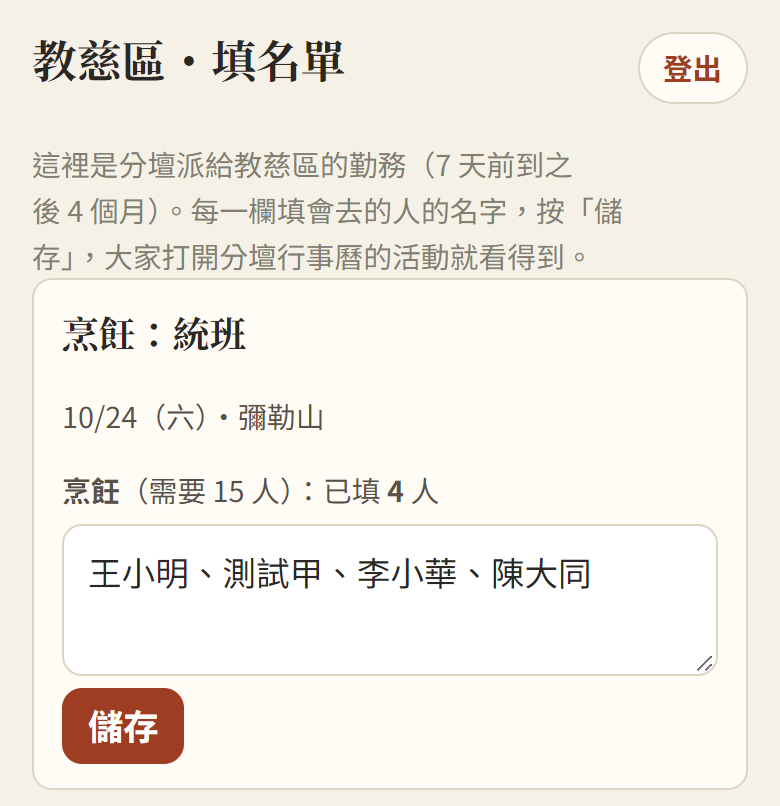
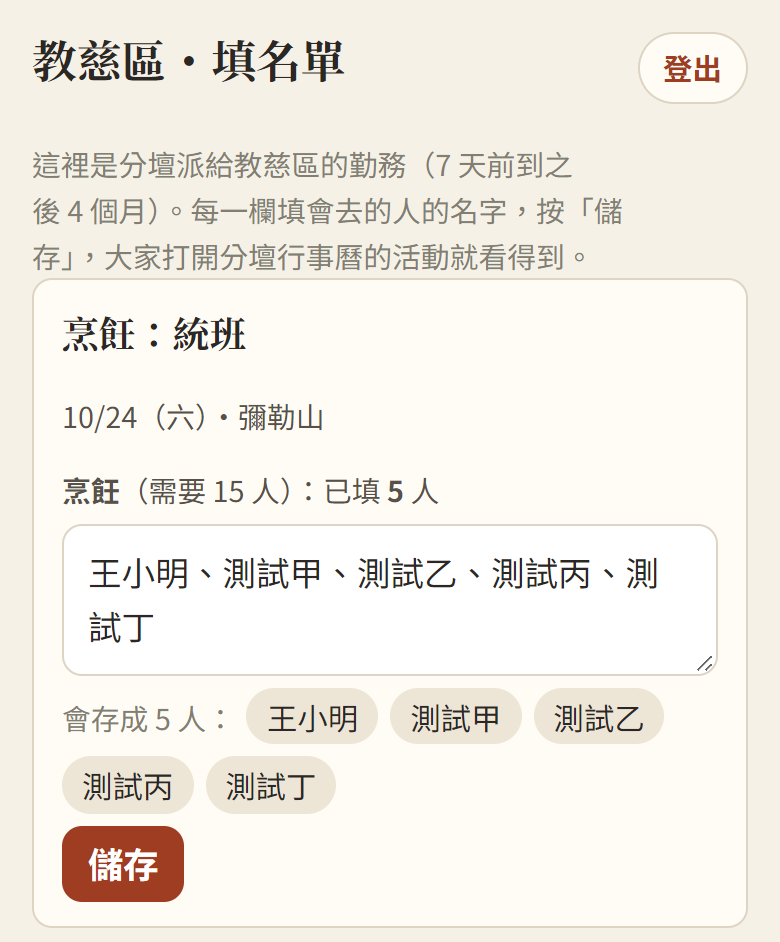
名單格式一致：多認句號、斜線、間隔號等分隔符號；輸入時即時預覽拆好的名字和人數，太長、超過人數當場提醒

diff --git a/js/admin.js b/js/admin.js
@@ -219,9 +219,10 @@
             ${ev.start !== ev.end ? `<p class="roster-day"><strong>${Fmt.esc(Fmt.shortDate(d))}</strong></p>` : ''}
             ${fields(ev).map((p) => {
               const names = ((ev.roster || {})[d] || {})[p.id] || [];
-              return `<form class="roster-fill" data-id="${Fmt.esc(ev.id)}" data-date="${d}" data-key="${Fmt.esc(p.id)}">
+              return `<form class="roster-fill" data-id="${Fmt.esc(ev.id)}" data-date="${d}" data-key="${Fmt.esc(p.id)}" data-max="${p.max || ''}">
                 <label class="form-row"><span><strong>${Fmt.esc(p.name)}</strong>${need(p) ? `（${Fmt.esc(need(p))}）` : ''}：已填 <b data-count>${names.length}</b> 人</span>
-                  <textarea class="input textarea" name="names" rows="2" placeholder="名字用、或空白隔開，例：王小明、測試甲">${Fmt.esc(names.join('、'))}</textarea></label>
+                  <textarea class="input textarea" name="names" rows="2" placeholder="名字之間空一格或用、隔開，例：王小明、測試甲">${Fmt.esc(names.join('、'))}</textarea></label>
+                <div class="name-preview" data-preview aria-live="polite"></div>
                 <div class="roster-fill-actions"><button type="submit" class="btn btn-primary btn-small">儲存</button><span class="muted" data-msg></span></div>
               </form>`;
             }).join('')}
@@ -241,6 +242,20 @@
     }
     const sel = view.querySelector('[data-f="unit"]');
     if (sel) sel.addEventListener('change', () => { location.hash = '#/admin/roster/' + encodeURIComponent(sel.value); });
+    // 邊打邊預覽：拆好的名字一個一個顯示（和存檔後一樣），太長、超過人數當場提醒
+    const preview = (f) => {
+      const names = Fmt.splitNames(f.names.value);
+      const max = Number(f.dataset.max) || 0;
+      const long = names.filter((n) => n.length > 20);
+      f.querySelector('[data-preview]').innerHTML = names.length ? `
+        <span class="name-count">會存成 ${names.length} 人：</span>${names.map((n) => `<span class="name-chip${n.length > 20 ? ' is-bad' : ''}">${Fmt.esc(n)}</span>`).join('')}
+        ${long.length ? '<p class="form-error">標紅色的太長了（最多 20 字），是不是兩個名字中間忘了空格或「、」？</p>' : ''}
+        ${max && names.length > max ? `<p class="form-error">超過最多 ${max} 人</p>` : ''}` : '';
+    };
+    view.querySelectorAll('.roster-fill').forEach((f) => {
+      preview(f);
+      f.names.addEventListener('input', () => { preview(f); f.querySelector('[data-msg]').textContent = '還沒儲存'; });
+    });
     view.querySelectorAll('.roster-fill').forEach((f) => f.addEventListener('submit', async (e) => {
       e.preventDefault();
       const msg = f.querySelector('[data-msg]');
@@ -250,6 +265,7 @@
         const names = ((res.event.roster || {})[f.dataset.date] || {})[f.dataset.key] || [];
         f.names.value = names.join('、');
         f.querySelector('[data-count]').textContent = names.length;
+        preview(f);
         msg.textContent = `已儲存（${md(f.dataset.date)}）`;
         CalendarPage.refresh(true);
       } catch (x) {

diff --git a/index.html b/index.html
@@ -17,7 +17,7 @@
   <link rel="preconnect" href="https://fonts.googleapis.com">
   <link rel="preconnect" href="https://fonts.gstatic.com" crossorigin>
   <link href="https://fonts.googleapis.com/css2?family=Noto+Sans+TC:wght@400;500;700&family=Noto+Serif+TC:wght@600;700&display=swap" rel="stylesheet">
-  <link rel="stylesheet" href="css/app.css?v=20261013t">
+  <link rel="stylesheet" href="css/app.css?v=20261013u">
   <script>try { var t = localStorage.getItem('fentan-calendar:text-size'); if (t === 'l' || t === 'xl') document.documentElement.classList.add('text-' + t); } catch (e) {}</script>
 </head>
 <body>
@@ -87,16 +87,16 @@
   <script src="https://cdn.jsdelivr.net/npm/fullcalendar@6.1.21/index.global.min.js"></script>
   <script src="https://cdn.jsdelivr.net/npm/@fullcalendar/core@6.1.21/locales/zh-tw.global.min.js"></script>
   <!-- 改了 js、css 後把 ?v= 的日期換新，手機才不會用到舊的檔案（GitHub Pages 會快取 10 分鐘） -->
-  <script src="js/site.js?v=20261013t"></script>
-  <script src="js/config.js?v=20261013t"></script>
-  <script src="js/api.js?v=20261013t"></script>
-  <script src="js/format.js?v=20261013t"></script>
-  <script src="js/lunar-util.js?v=20261013t"></script>
-  <script src="js/calendar.js?v=20261013t"></script>
-  <script src="js/event-page.js?v=20261013t"></script>
-  <script src="js/help.js?v=20261013t"></script>
-  <script src="js/push.js?v=20261013t"></script>
-  <script src="js/admin.js?v=20261013t"></script>
-  <script src="js/app.js?v=20261013t"></script>
+  <script src="js/site.js?v=20261013u"></script>
+  <script src="js/config.js?v=20261013u"></script>
+  <script src="js/api.js?v=20261013u"></script>
+  <script src="js/format.js?v=20261013u"></script>
+  <script src="js/lunar-util.js?v=20261013u"></script>
+  <script src="js/calendar.js?v=20261013u"></script>
+  <script src="js/event-page.js?v=20261013u"></script>
+  <script src="js/help.js?v=20261013u"></script>
+  <script src="js/push.js?v=20261013u"></script>
+  <script src="js/admin.js?v=20261013u"></script>
+  <script src="js/app.js?v=20261013u"></script>
 </body>
 </html>

diff --git a/js/help.js b/js/help.js
@@ -81,8 +81,9 @@
     { cat: '管理者', q: '各區組長怎麼填名單？', img: 'roster-fill.png', a: `
       <ol class="help-steps">
         <li><span class="help-num">1</span><span>打開分壇行事曆的活動，在自己區的名單旁邊按「<strong>✏ 填寫名單</strong>」（或按最下面的「管理者」），帳號選<strong>自己的區</strong>，輸入分壇給的密碼。</span></li>
-        <li><span class="help-num">2</span><span>會看到分壇派給這一區的勤務，每一欄填會去的人的名字（用、或空白隔開），按「儲存」。</span></li>
+        <li><span class="help-num">2</span><span>會看到分壇派給這一區的勤務，每一欄填會去的人的名字，名字之間空一格、或用「、」「，」隔開都可以，按「儲存」。</span></li>
       </ol>
+      <p>輸入框下面會即時顯示拆好的名字和人數，存好後大家看到的就是這樣（一律用「、」排好）。名字變紅色就是太長，多半是兩個名字中間忘了空格或「、」。</p>
       <p>組長帳號只能填名單，不能改活動。密碼由總管理者在後台「帳號」分頁設定。</p>` },
     { cat: '管理者', q: '教全區也一樣嗎？', a: `
       <p>一樣。分壇派給教全區的勤務，由教全區的組長用「教全區」帳號在這裡填名單。教全區自己的活動照舊在教全區行事曆。</p>` },

diff --git a/worker/src/logic.js b/worker/src/logic.js
@@ -141,9 +141,12 @@ export function publicEvent(ev) {
   };
 }
 
-/** 組長填的名字：字串（逗號、頓號、空白、換行隔開）或陣列 → 去掉空白、重複；每個最多 20 字、最多 100 人 */
+/** 名字之間的分隔：逗號、頓號、分號、句號、斜線、間隔號、直線、空白、換行（前端 js/format.js 的 splitNames 要一樣） */
+export const NAME_SEP = /[,，、;；。．.\/／・·|｜\s　]+/;
+
+/** 組長填的名字：字串（NAME_SEP 隔開）或陣列 → 去掉空白、重複；每個最多 20 字、最多 100 人 */
 export function cleanRosterNames(input) {
-  const list = Array.isArray(input) ? input : String(input || '').split(/[,，、;；\s　]+/);
+  const list = Array.isArray(input) ? input : String(input || '').split(NAME_SEP);
   const out = [];
   list.forEach((n) => {
     const name = String(n || '').replace(/[\s　]/g, '');

diff --git a/js/format.js b/js/format.js
@@ -109,5 +109,13 @@
     return rows ? `<ul class="roster">${rows}</ul>` : '';
   }
 
-  window.Fmt = { statusBadge, rosterHtml, esc, toDateStr, parseDate, addDays, datesBetween, rocYear, weekday, shortDate, rocDate, catLabel, timeRange, cardTime, tagsHtml };
+  /** 組長填的名字拆成一個一個、去掉重複（規則同 worker/src/logic.js 的 NAME_SEP、cleanRosterNames） */
+  const NAME_SEP = /[,，、;；。．.\/／・·|｜\s　]+/;
+  function splitNames(text) {
+    const out = [];
+    String(text || '').split(NAME_SEP).forEach((n) => { if (n && out.indexOf(n) === -1) out.push(n); });
+    return out;
+  }
+
+  window.Fmt = { splitNames, statusBadge, rosterHtml, esc, toDateStr, parseDate, addDays, datesBetween, rocYear, weekday, shortDate, rocDate, catLabel, timeRange, cardTime, tagsHtml };
 })();

diff --git a/css/app.css b/css/app.css
@@ -750,4 +750,10 @@ select.input { appearance: auto; }
 .roster-fill-actions { display: flex; align-items: center; gap: 10px; }
 .linked-item .roster small { margin-left: 4px; }
 .linked-item .fill-btn { margin-top: 8px; font-weight: 700; }
+.name-preview { display: flex; flex-wrap: wrap; align-items: center; gap: 6px; }
+.name-preview:empty { display: none; }
+.name-preview .form-error { flex-basis: 100%; margin: 0; }
+.name-count { color: var(--muted); font-size: .9rem; }
+.name-chip { padding: 2px 10px; border-radius: 999px; background: var(--paper-2); color: var(--ink); font-size: .95rem; overflow-wrap: anywhere; }
+.name-chip.is-bad { background: var(--accent-soft); color: var(--accent); font-weight: 700; }
 .roster-card.is-focus { border-color: var(--accent); box-shadow: 0 0 0 2px var(--accent-soft); }

diff --git a/docs/spec.md b/docs/spec.md
@@ -217,7 +217,7 @@ Durable Object 的 SQLite：
 
 - **不再讀**各區報名系統、教全區行事曆的報名名單。各區報名系統（另一個專案）先留著不用。教全區的活動也不再顯示在分壇行事曆（教全區組長一樣在這裡填）。
 - **帳號**：每區一個帳號（16 區＋測試區），密碼由總管理者在後台「帳號」分頁設定（至少 6 個字，只存加鹽雜湊），交給那一區的組長。總管理者原本的密碼（Worker secret）不變。
-- **組長登入後**只看到「填名單」：分壇派給這一區的勤務（分壇分配，今天前 7 天到之後 120 天），每個勤務、每一天、每個了愿項目（沒有了愿項目的就一欄「名單」）填名字（逗號、頓號或空白隔開），存檔。組長不能新增、修改、刪除活動，也看不到其他後台功能。總管理者也可以幫任何一區填。
+- **組長登入後**只看到「填名單」：分壇派給這一區的勤務（分壇分配，今天前 7 天到之後 120 天），每個勤務、每一天、每個了愿項目（沒有了愿項目的就一欄「名單」）填名字，存檔。名字之間用空白、換行、頓號、逗號、分號、句號、斜線、間隔號（・）、直線（|）隔開都可以；存檔時一律拆成一個一個名字（去掉重複，每個最多 20 字），顯示時用「、」連起來，所以大家看到的格式一樣。輸入時，輸入框下面即時預覽拆好的名字和人數（和存檔後一樣）；太長的名字標紅色（多半是兩個名字中間忘了隔開），超過了愿項目的最多人數也提醒（仍可存）。組長不能新增、修改、刪除活動，也看不到其他後台功能。總管理者也可以幫任何一區填。
 - 名單存在那一筆活動上（`roster`：日期 → 了愿項目 → 名字），寫入操作紀錄（「填名單」，誰填的）。名字每個最多 20 字、每一欄最多 100 人。
 - **大家看**：分壇行事曆的活動頁「**各區名單**」：每一筆派給區的勤務一段（區、名稱、那天的名單、已填幾人／需要幾人）；還沒填寫「還沒填名單」。卡片右邊「各區已填 N 人」。名單大家都看得到（只有名字）。
 - 每一段有「✏ 填寫名單」按鈕（`#/admin/fill/<區>/<勤務 id>`）：沒登入就開登入畫面、帳號先選好那一區；登入後直接跳到那一筆勤務、游標在第一欄。登入的是別區的組長，提示只能填自己區的。
